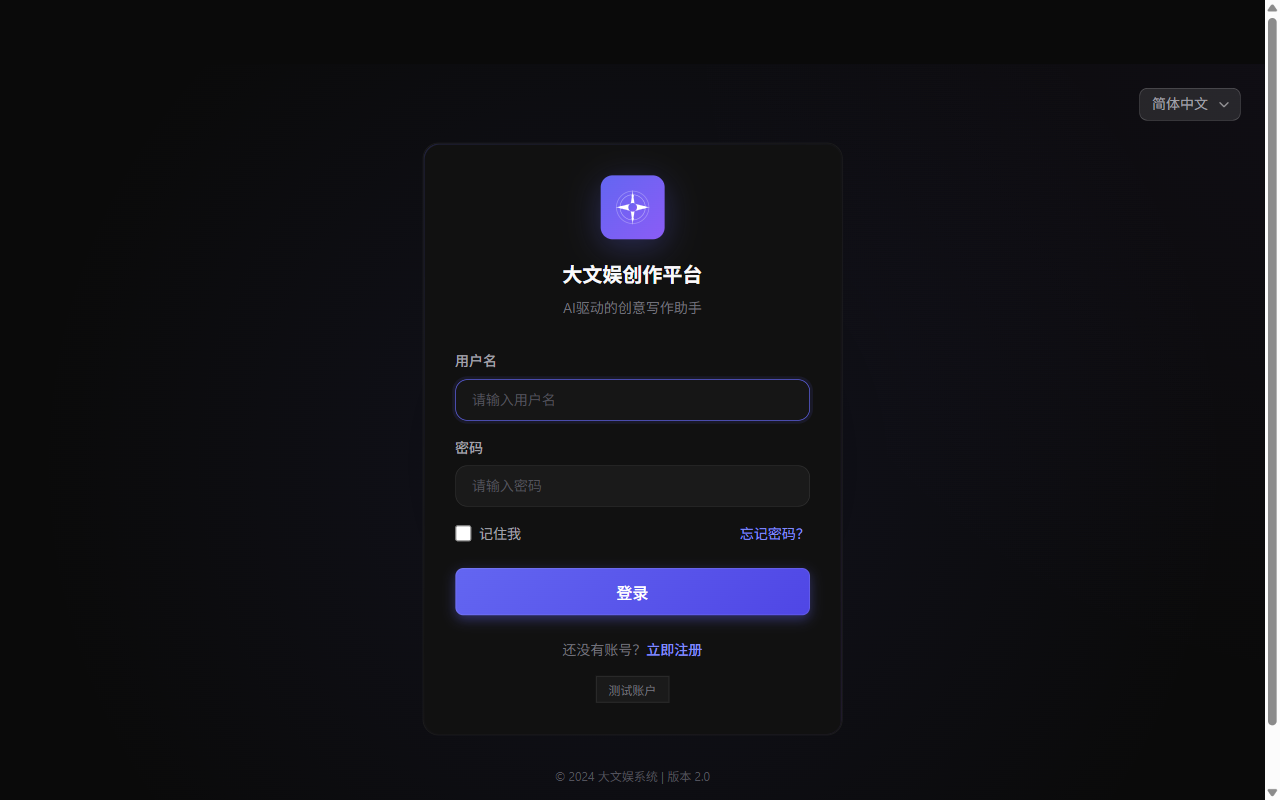
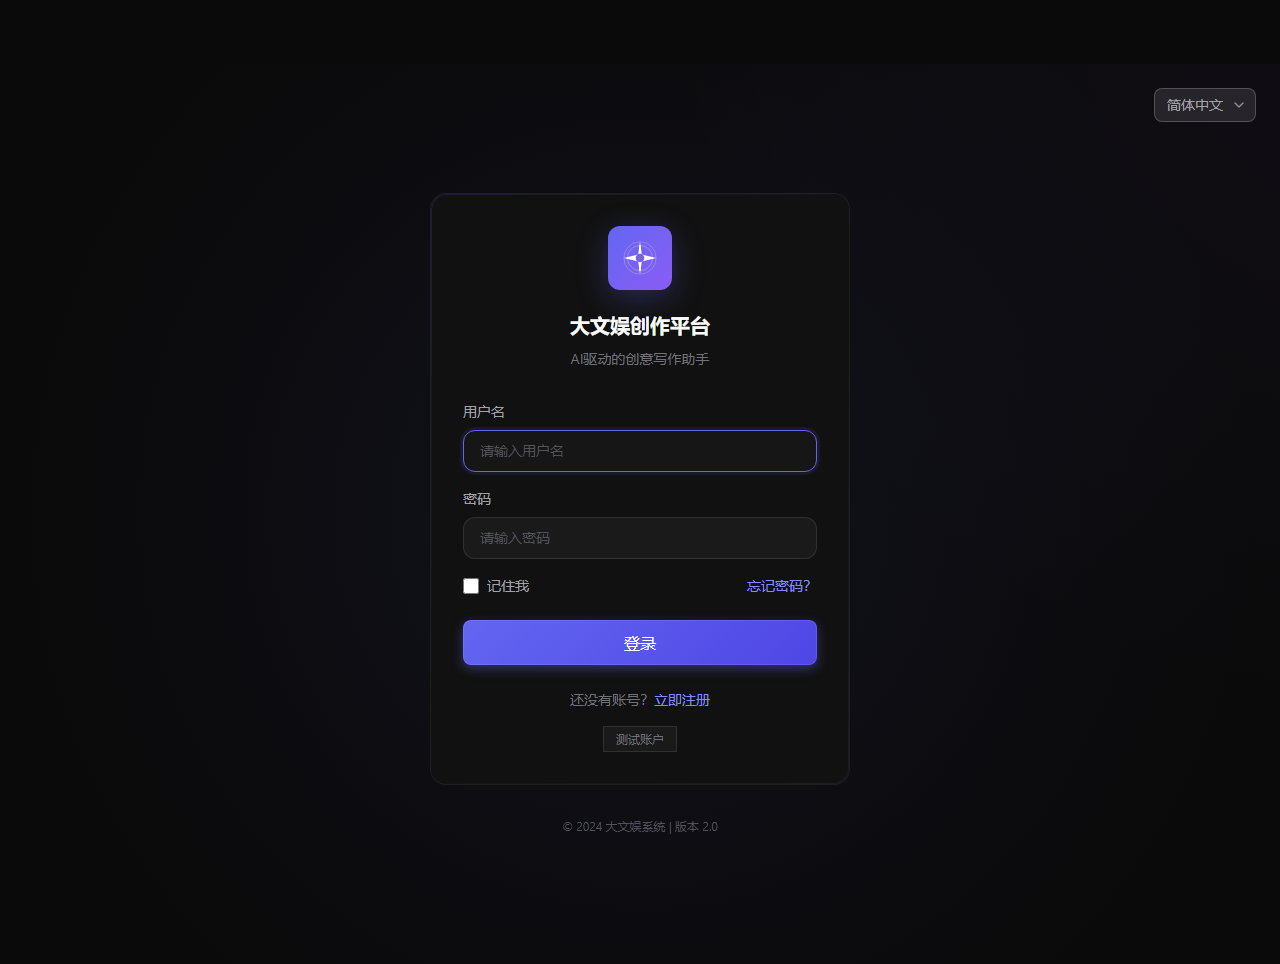
Fix: 移除account.html外部CSS引入，避免样式冲突

diff --git a/web/templates/account.html b/web/templates/account.html
@@ -4,7 +4,7 @@
     <meta charset="UTF-8">
     <meta name="viewport" content="width=device-width, initial-scale=1.0">
     <title>账户管理 - 大文娱创作平台</title>
-    <link rel="stylesheet" href="/static/css/style.css">
+    <!-- 注意：此页面使用内联样式，不引入外部CSS以避免冲突 -->
     <style>
         /* ==================== 页面变量 ==================== */
         :root {

diff --git a/screenshot_account.py b/screenshot_account.py
@@ -1,53 +1,60 @@
+"""
+账户设置页面截图脚本
+用于检查修复效果
+"""
+
 import asyncio
 from playwright.async_api import async_playwright
 
-async def screenshot_account():
+async def screenshot_account_page():
+    """截图账户设置页面"""
     async with async_playwright() as p:
         # 启动浏览器
-        browser = await p.chromium.launch(headless=False)
-        context = await browser.new_context(viewport={'width': 1280, 'height': 800})
+        browser = await p.chromium.launch(headless=True)
+        context = await browser.new_context(viewport={'width': 1280, 'height': 900})
         page = await context.new_page()
         
         try:
             # 1. 访问登录页面
-            print("访问登录页面...")
-            await page.goto('http://localhost:5000/login')
-            await page.wait_for_load_state('networkidle')
-            await asyncio.sleep(1)
+            print("正在访问登录页面...")
+            await page.goto('http://localhost:5000/login', wait_until='networkidle')
             
-            # 2. 填写登录表单 - 使用ID选择器
-            print("填写登录信息...")
-            await page.fill('#username', 'admin')
-            await page.fill('#password', 'yanghailin')
+            # 2. 等待登录表单加载 - 使用更通用的选择器
+            await page.wait_for_selector('input', timeout=10000)
             
-            # 3. 点击登录按钮
-            print("点击登录...")
-            await page.click('#loginBtn')
+            # 3. 填写登录信息 - 使用 placeholder 定位
+            print("正在登录...")
+            await page.fill('input[placeholder="请输入用户名"]', 'admin')
+            await page.fill('input[placeholder="请输入密码"]', 'yanghailin')
             
-            # 等待登录完成并跳转
-            await page.wait_for_load_state('networkidle')
-            await asyncio.sleep(2)
+            # 4. 点击登录按钮
+            await page.click('button:has-text("登录")')
             
-            # 4. 导航到账户设置页面
-            print("导航到账户设置页面...")
-            await page.goto('http://localhost:5000/account')
-            await page.wait_for_load_state('networkidle')
-            await asyncio.sleep(2)
+            # 5. 等待页面跳转
+            await page.wait_for_timeout(3000)
+            print(f"当前URL: {page.url}")
             
-            # 5. 截图
-            print("正在截图...")
-            screenshot_path = 'C:\\Users\\yangh\\Documents\\GitHub\\xsdm\\screenshot_account_fixed.png'
+            # 6. 导航到账户设置页面
+            print("正在访问账户设置页面...")
+            await page.goto('http://localhost:5000/account', wait_until='networkidle')
+            
+            # 7. 等待页面内容加载
+            await page.wait_for_timeout(2000)
+            
+            # 8. 截图保存
+            screenshot_path = r'C:\Users\yangh\Documents\GitHub\xsdm\screenshot_account_v2.png'
             await page.screenshot(path=screenshot_path, full_page=True)
             print(f"截图已保存到: {screenshot_path}")
             
             return True
             
         except Exception as e:
-            print(f"错误: {e}")
-            # 错误时也要截图
+            print(f"发生错误: {e}")
+            # 出错时也尝试截图
             try:
-                await page.screenshot(path='C:\\Users\\yangh\\Documents\\GitHub\\xsdm\\screenshot_error.png')
-                print("错误截图已保存到 screenshot_error.png")
+                error_path = r'C:\Users\yangh\Documents\GitHub\xsdm\screenshot_error.png'
+                await page.screenshot(path=error_path, full_page=True)
+                print(f"错误截图已保存到: {error_path}")
             except:
                 pass
             return False
@@ -55,6 +62,6 @@ async def screenshot_account():
         finally:
             await browser.close()
 
-if __name__ == '__main__':
-    result = asyncio.run(screenshot_account())
-    print(f"截图结果: {'成功' if result else '失败'}")
+if __name__ == "__main__":
+    success = asyncio.run(screenshot_account_page())
+    exit(0 if success else 1)
